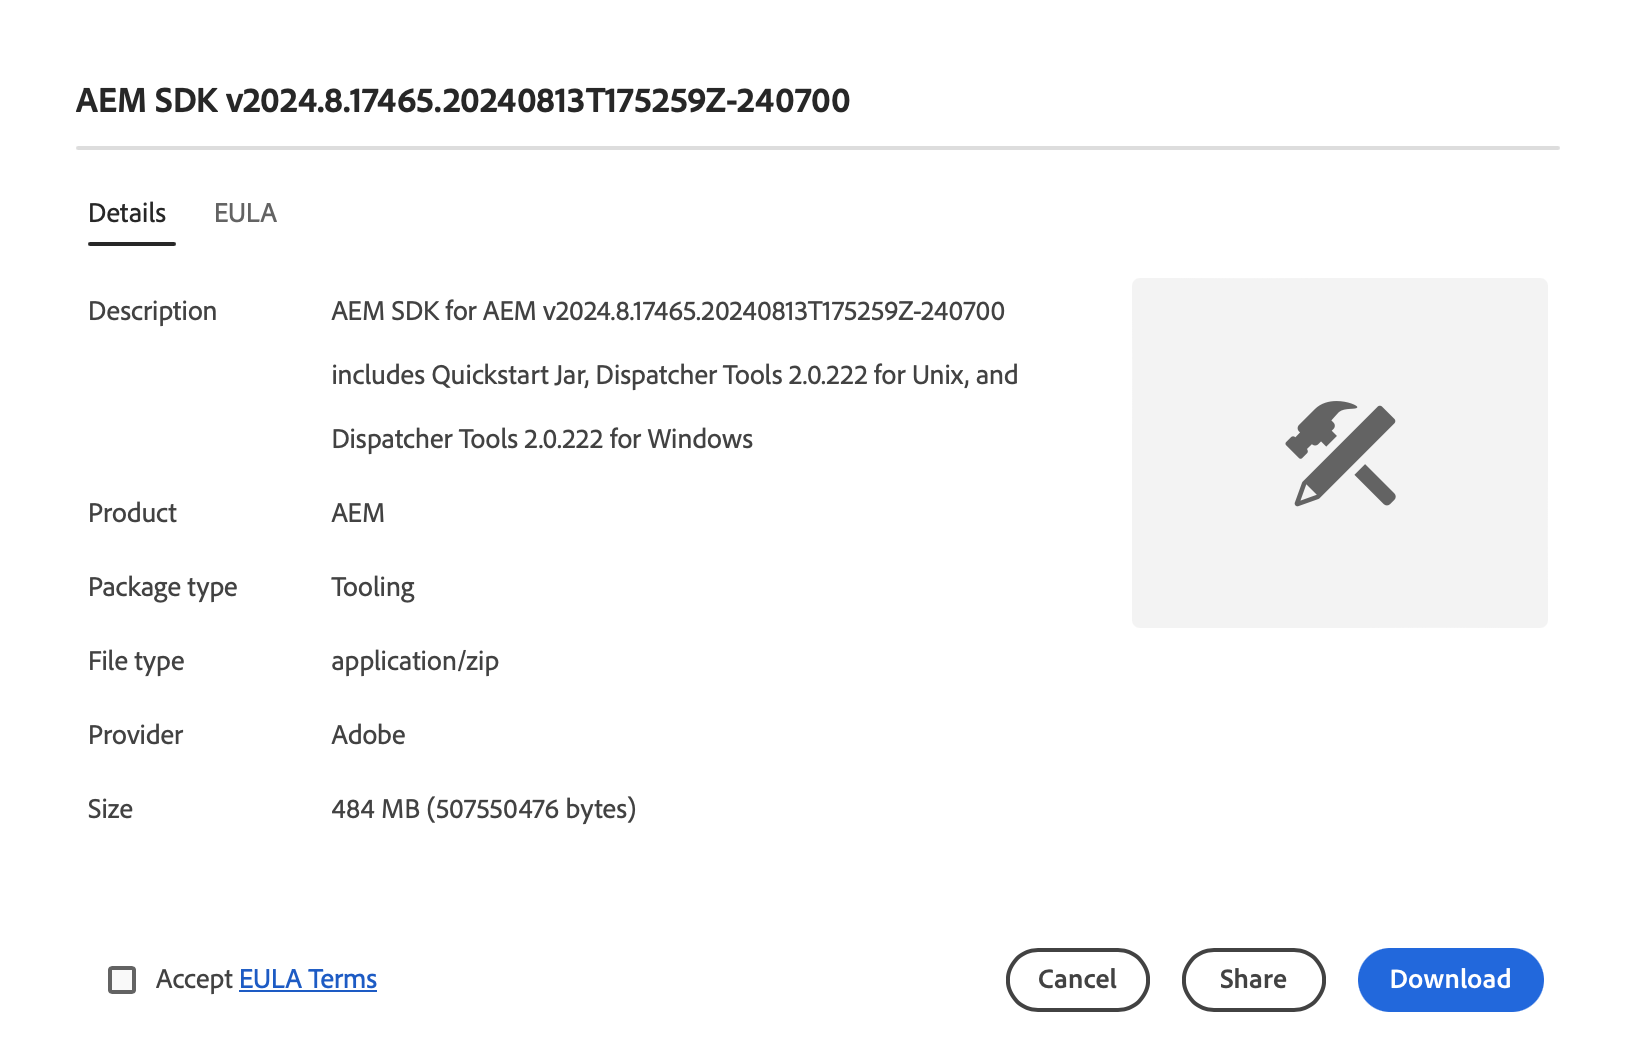
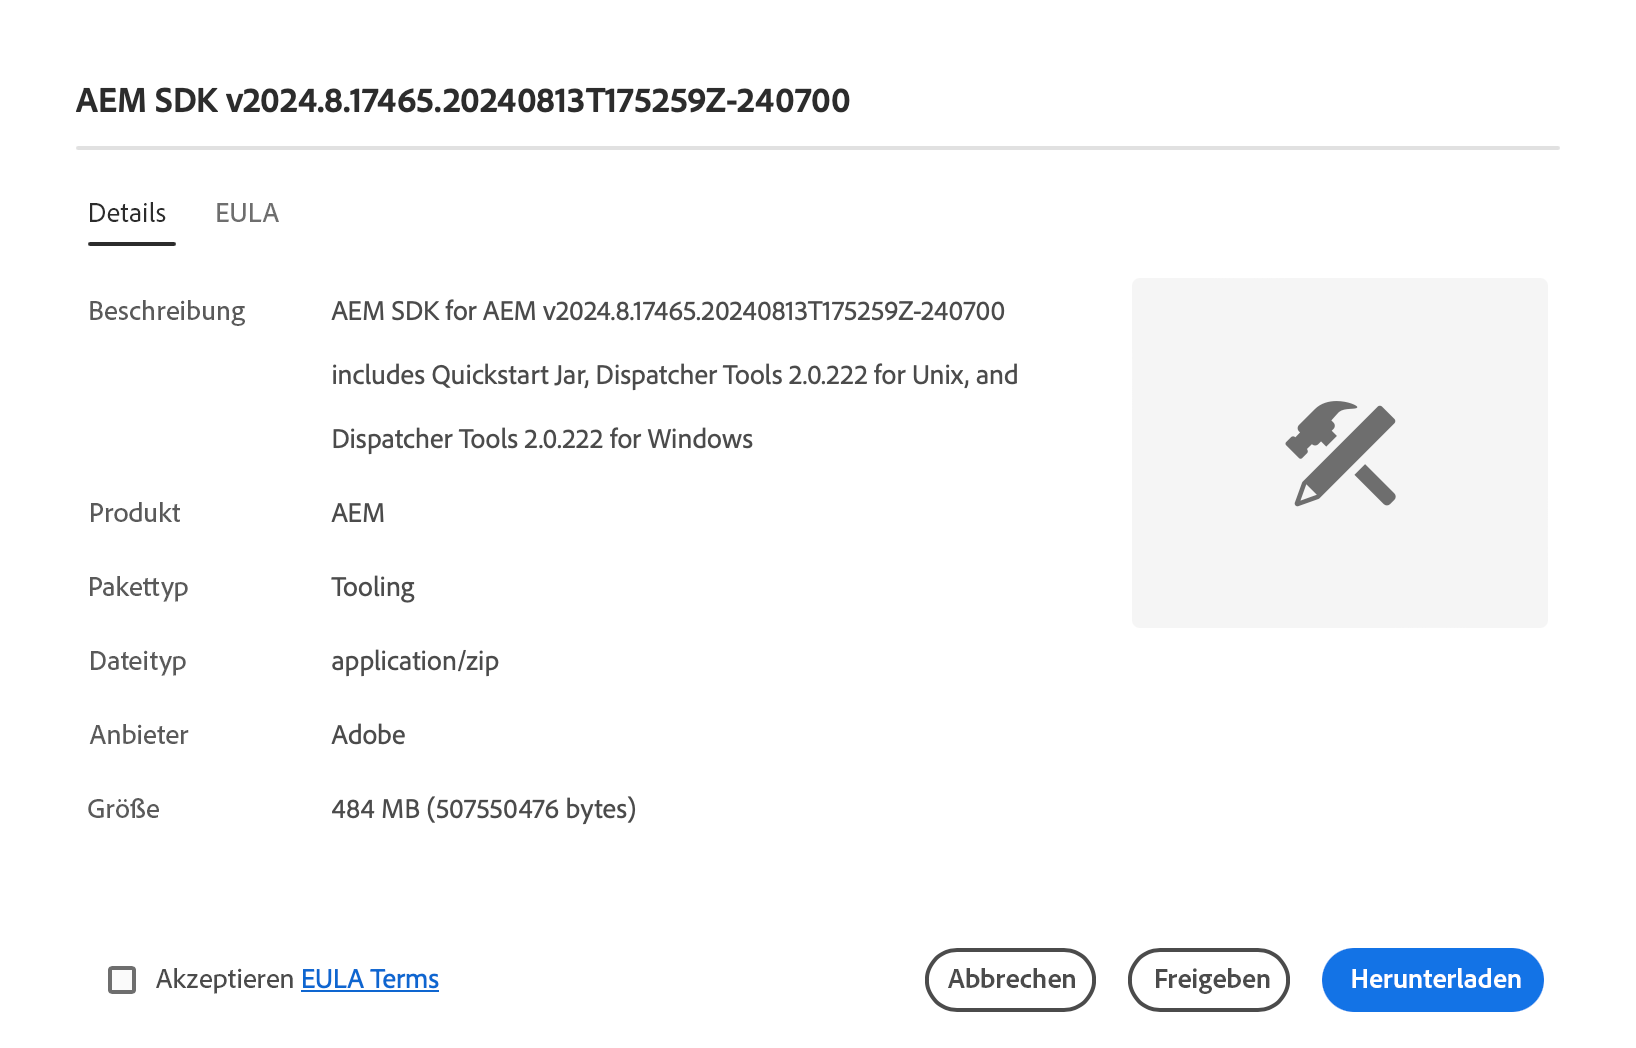
Updated by task 'AUTO_HANDOFF_1724428864251'  Changes for core/source commit https://git.corp.adobe.com/AdobeDocs/experience-cloud.en/commit/ab636c01910e4825bd9168c276b2fe14dead50a4

diff --git a/help/software-distribution/home.md b/help/software-distribution/home.md
@@ -3,50 +3,50 @@ title: Softwareverteilung
 description: Erfahren Sie, wie Sie mit Softwareverteilung Ihre Adobe Experience Cloud-Software herunterladen können.
 exl-id: ac559a28-4444-4326-ba92-78afd10ed9ab
 source-git-commit: 6a2ba27cfeae875ab9184760b6d233ef759dd460
-workflow-type: tm+mt
+workflow-type: ht
 source-wordcount: '430'
-ht-degree: 9%
+ht-degree: 100%
 
 ---
 
 
-# Software-Verteilung
+# Softwareverteilung
 
 Erfahren Sie, wie Sie mit Softwareverteilung Ihre Adobe Experience Cloud-Software herunterladen können.
 
 ## Einführung
 
-Softwareverteilung bietet eine effiziente Möglichkeit, Ihre Adobe Experience Cloud-Software zu finden und herunterzuladen. Für die folgenden Produkte stehen genehmigte Softwarepakete von Adobe und Packages von Partnerunternehmen zur Verfügung:
+Softwareverteilung bietet eine effiziente Möglichkeit, Ihre Adobe Experience Cloud-Software zu finden und herunterzuladen. Für folgende Produkte stehen bestätigte Softwarepackages von Adobe und Packages von Partnerfirmen zur Verfügung:
 
-1. **Adobe Experience Manager** - Alles rund um Service und Wartung, Sicherheit, Tools und mehr - für alle unterstützten AEM
-1. **Adobe Experience Manager as a [!UICONTROL Cloud Service]** - [!UICONTROL AEM Cloud SDK], [!UICONTROL AEM Cloud]-Migrationstools und mehr
-1. **Adobe Campaign** - Alle aktuellen [!DNL Campaign] Installationsversionen und zugehörige Tools
-1. **Allgemein** - Allgemeine Werkzeuge einschließlich [!DNL Oracle] JDKs für Adobe-Kunden
+1. **Adobe Experience Manager** – Alles rund um Service und Wartung, Sicherheit, Tooling und mehr – für alle unterstützten AEM-Versionen.
+1. **Adobe Experience Manager as a [!UICONTROL Cloud Service]** – [!UICONTROL AEM Cloud-SDK], [!UICONTROL AEM Cloud]-Migrations-Tools und mehr.
+1. **Adobe Campaign** – [!DNL Campaign]-Installationsprogramme in allen aktuellen Versionen und zugehörige Tools.
+1. **Allgemein** – Tools für allgemeine Aufgaben wie etwa [!DNL Oracle]-JDKs für Adobe-Kunden.
 
-Die Verwendung von Softwareverteilung ist einfach:
+Die Verwendung der Softwareverteilung ist einfach:
 
-1. [Zugriff auf Softwareverteilung](#accessing)
-1. [Produkt auswählen](#selecting)
-1. [Download suchen](#finding)
-1. [Software herunterladen](#downloading)
+1. [Zugreifen auf die Softwareverteilung](#accessing)
+1. [Auswählen Ihres Produkts](#selecting)
+1. [Suchen des Downloads](#finding)
+1. [Herunterladen der Software](#downloading)
 
 ## Zugriff auf Software-Verteilung {#accessing}
 
-Um auf Softwareverteilung zuzugreifen, gehen Sie zu [`https://experience.adobe.com/downloads`](https://experience.adobe.com/downloads) und melden Sie sich bei [!UICONTROL Softwareverteilung] bei Ihrer Adobe ID an.
+Um auf die Softwareverteilung zuzugreifen, rufen Sie [`https://experience.adobe.com/downloads`](https://experience.adobe.com/downloads)https://experience.adobe.com/downloads auf und melden Sie sich mit Ihrer Adobe ID bei [!UICONTROL Softwareverteilung] an.
 
 ## Auswählen Ihres Produkts {#selecting}
 
-Die Benutzeroberfläche für Softwareverteilung ist nach Produkt geordnet, wie im Menü dargestellt.
+Die Benutzeroberfläche der Softwareverteilung ist nach Produkt geordnet, wie im Menü dargestellt.
 
 ![Menü nach Produkten organisiert](assets/menu.png)
 
-Sie gelangen zur Registerkarte **Allgemein** , wo Sie Softwaredownloads für allgemeine Zwecke finden.
+Sie gelangen zur Registerkarte **Allgemein**, wo Sie allgemeine Softwaredownloads finden.
 
-Tippen oder klicken Sie im Menü auf das Produkt, für das Sie die Software herunterladen möchten. Es können nur Produkte heruntergeladen werden, für die Ihr Unternehmen Lizenzen besitzt.
+Tippen oder klicken Sie im Menü auf das Produkt, für das Sie die Software herunterladen möchten. Es können nur Produkte heruntergeladen werden, für die Ihre Organisation Lizenzen besitzt.
 
-## Herunterladen suchen {#finding}
+## Suchen des Downloads {#finding}
 
-Nachdem Sie die gewünschte Produkt-Registerkarte ausgewählt haben, werden alle zugehörigen Downloads angezeigt. Verwenden Sie die Suchfilter im linken Bereich, um Ihren Download schnell zu finden. Filteroptionen variieren je nach Produkt.
+Nachdem Sie die Registerkarte für das gewünschte Produkt ausgewählt haben, werden alle zugehörigen Downloads angezeigt. Verwenden Sie die Suchfilter im linken Bereich, um Ihren Download schnell zu finden. Filteroptionen variieren je nach Produkt.
 
 ![Filter](assets/filters.png)
 
@@ -54,19 +54,19 @@ Nachdem Sie die gewünschte Produkt-Registerkarte ausgewählt haben, werden alle
 
 Durch Tippen oder Klicken auf einen angezeigten Download wird ein Dialogfeld geöffnet, in dem Sie weitere Informationen zum Download erhalten. Sie können beispielsweise eine Beschreibung, den Namen des Anbieters und den Endbenutzer-Lizenzvertrag sehen.
 
-![Download-Details](assets/details.png)
+![Details des Downloads](assets/details.png)
 
 Sie müssen den Endbenutzer-Lizenzvertrag akzeptieren, indem Sie **EULA-Bedingungen akzeptieren** auswählen, um die Schaltfläche **Herunterladen** zu aktivieren.
 
-Sie können auch einen Link zu diesem Download freigeben, indem Sie auf **Freigeben** tippen/klicken, um die URL zu kopieren.
+Sie können auch einen Link zu diesem Download freigeben, indem Sie auf **Freigeben** tippen oder klicken, um die URL zu kopieren.
 
 ## Package Share {#package-share}
 
-Im Juni 2020 ersetzte [!UICONTROL Softwareverteilung] [!UICONTROL Package Share] für AEM und [!DNL Neolane] für [!DNL Campaign]. Eine intuitive Benutzeroberfläche, eine vereinfachte Suche und eine deutlich verbesserte Download-Geschwindigkeit machen das Herunterladen von Softwarepaketen für Experience Cloud-Produkte zu einem besseren Erlebnis mit Softwareverteilung.
+Im Juni 2020 hat [!UICONTROL Softwareverteilung] [!UICONTROL Package Share] für AEM und [!DNL Neolane] für [!DNL Campaign] ersetzt. Eine intuitive Benutzeroberfläche, eine vereinfachte Suche und eine deutlich verbesserte Download-Geschwindigkeit machen das Herunterladen von Softwarepackages für Experience Cloud-Produkte mithilfe der Softwareverteilung zu einem angenehmeren Erlebnis.
 
 >[!IMPORTANT]
 >
->Die Anmeldedaten von [!UICONTROL Package Share] oder [!DNL Neolane] funktionieren nicht für [!UICONTROL Softwareverteilung], was die Anmeldung mit Adobe-weiten Sicherheitsstandards ermöglicht. Wenn Sie Ihre Adobe ID nicht kennen, wenden Sie sich an einen Support-Administrator in Ihrem Unternehmen.
+>Die Anmeldedaten von [!UICONTROL Package Share] oder [!DNL Neolane] funktionieren nicht für die [!UICONTROL Softwareverteilung], da die Anmeldung auf dieser Seite auf Grundlage aller bei Adobe geltenden Sicherheitsstandards erfolgt. Wenn Sie Ihre Adobe ID nicht kennen, wenden Sie sich an Support-Admins in Ihrem Unternehmen.
 
 >[!NOTE]
 >
